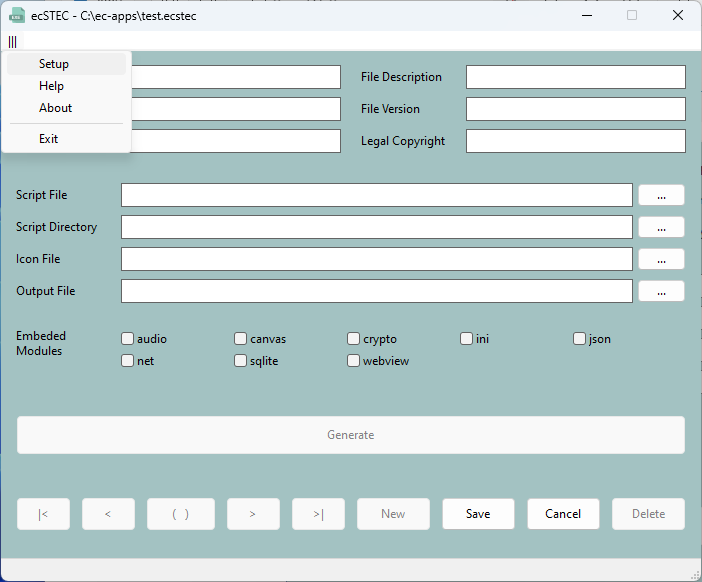
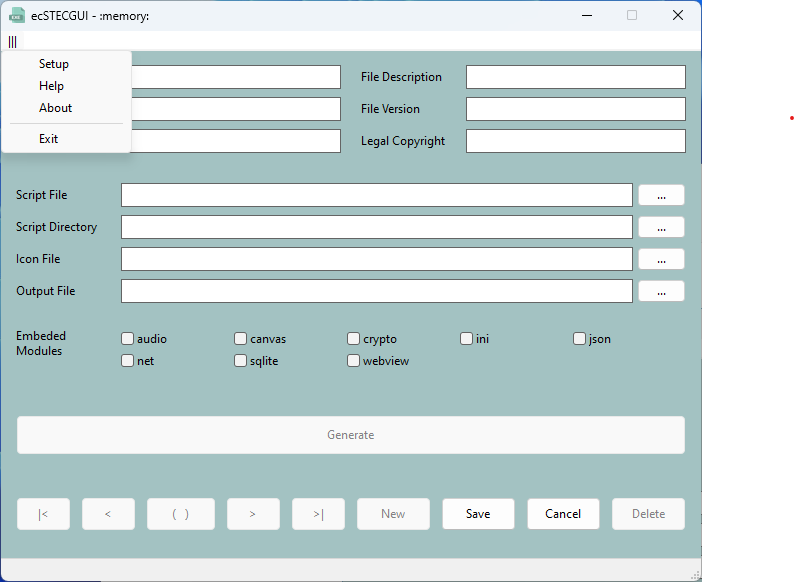
Update Commit

diff --git a/README.md b/README.md
@@ -1,4 +1,12 @@
 # ec-stec-gui
- esferatec script to executable compiler GUI
+
+ecSTECGUI is a graphical user interface that allows you to create standalone executable applications for Windows from your LuaRT scripts. You can manage multiple scripts and store the necessary parameters. This makes it easy to generate an EXE file of your project.
+
+It depends on LuaRT [rtc](https://github.com/samyeyo/rtc) and Electron [rcedit](https://github.com/electron/rcedit).
+
+* rtc is a LuaRT script to executable compiler
+* rcedit is a command line tool to edit resources of exe
 
 ![](img/screenshot_183052.png)
+
+![](img/screenshot_073357.png)
